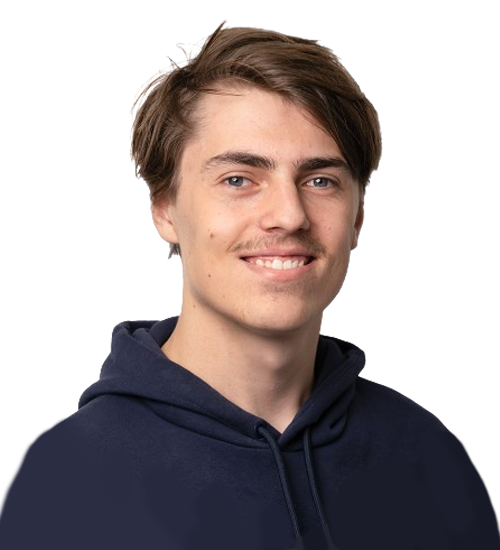
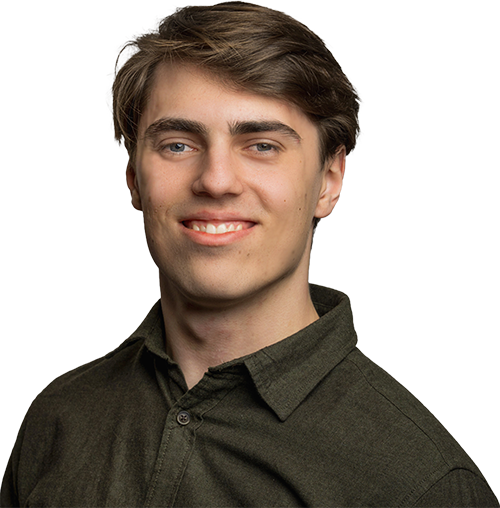
Updated portrait pic

diff --git a/style.css b/style.css
@@ -572,9 +572,10 @@ nav {
     }
 
     img[src*='me-noBg'] {
-        transform: rotateY(180deg);
+        /* transform: rotateY(180deg); */
         height: 550px;
         width: auto;
+        border-radius: 8px;
     }
 
     .image_carousel {
